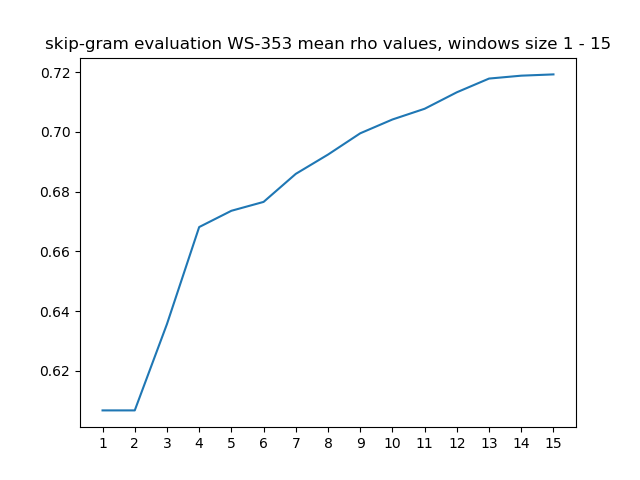
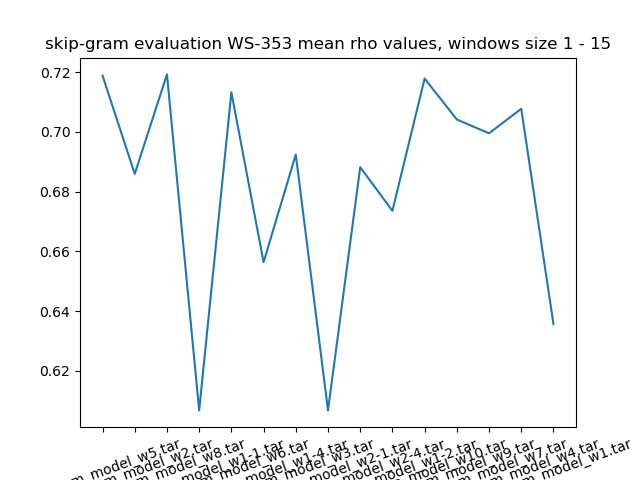
new model with dim 500 have same positive increase

diff --git a/models/values_eval_plot.py b/models/values_eval_plot.py
@@ -5,46 +5,50 @@ mean_rho_data = np.loadtxt("eval_mean_rho.txt", dtype = str, delimiter = "\n")
 #we know there shoould be 12 values in both
 mean_rho_SGNS = []
 mean_rho_CBOW = []
+model_name_SGNS = []
+model_name_CBOW = []
 
 for i, data in enumerate(mean_rho_data):
     if i == len(mean_rho_data)-1:
         print("made arrays of values")
     else:
         if "cbow" in str(data):
-            print("hej")
+            model_name_CBOW.append(mean_rho_data[i])
             mean_rho_CBOW.append(float(mean_rho_data[i+1]))
         if "skipgram" in str(data):
-            print("hejhej")
+            model_name_SGNS.append(mean_rho_data[i])
             mean_rho_SGNS.append(float(mean_rho_data[i+1]))
 
 mean_rho_SGNS = np.array(mean_rho_SGNS)
 mean_rho_CBOW = np.array(mean_rho_CBOW)
-mean_rho_SGNS.sort()
-mean_rho_CBOW.sort()
+#mean_rho_SGNS.sort() #we fuck it up if we sort
+#mean_rho_CBOW.sort() #could make tuples instead...
 
 print("skip-gram evaluation WS-353 mean values, windows size 1 - {}".format(len(mean_rho_SGNS)))
-#mean_rho_SGNS = [0.6356543304967629,0.6859671484411557  ,0.6924293781318873  , 0.7077708305390136,0.7188599859909027 , 0.7132944845703011 , 0.699551202038216, 0.7192855118852405,  0.7041803792159528,  0.717889605224073]
 
-window_size_SGNS =np.arange(1,len(mean_rho_SGNS)+1,1)
+#first results
+#mean_rho_SGNS = [0.6356543304967629,0.6859671484411557  ,0.6924293781318873  , 0.7077708305390136,0.7188599859909027 , 0.7132944845703011 , 0.699551202038216, 0.7192855118852405,  0.7041803792159528,  0.717889605224073]
+#window_size_SGNS =np.arange(1,len(mean_rho_SGNS)+1,1)
 
 for i in range(len(mean_rho_SGNS)):
-    print("window size " + str(window_size_SGNS[i]) + ": " + str(mean_rho_SGNS[i]))
+    print(model_name_SGNS[i] + ": " + str(mean_rho_SGNS[i]))
 
 SGNS_plot, ax_SGNS = plt.subplots()
-ax_SGNS.plot(window_size_SGNS, mean_rho_SGNS)
-plt.xticks(window_size_SGNS)
+ax_SGNS.plot(model_name_SGNS, mean_rho_SGNS)
+plt.xticks(np.arange(len(model_name_SGNS)), model_name_SGNS, rotation=20)
 ax_SGNS.set_title("skip-gram evaluation WS-353 mean rho values, windows size 1 - {}".format(len(mean_rho_SGNS)))
 SGNS_plot.savefig("SGNS_plot.png")
 
+#first results
 #mean_rho_CBOW = [0.5804338343545967 , 0.6508858227099523 ,0.6802805346625579  ,0.6932546677573747  , 0.7024608832285866, 0.7090981595837526 ,0.7075484759236735, 0.722764153135901, 0.7121865820323352, 0.7234083268868999 ]
-window_size_CBOW = np.arange(1,len(mean_rho_CBOW)+1,1)
+#window_size_CBOW = np.arange(1,len(mean_rho_CBOW)+1,1)
 
 print("CBOW evaluation on WS-353 mean rho values, windows size 1 - {}".format(len(mean_rho_CBOW)))
 for i in range(len(mean_rho_CBOW)):
-    print("window size " + str(window_size_CBOW[i]) + ": " + str(mean_rho_CBOW[i]))
+    print(model_name_CBOW[i] + ": " + str(mean_rho_CBOW[i]))
 
 CBOW_plot, ax_CBOW = plt.subplots()
-ax_CBOW.plot(window_size_CBOW, mean_rho_CBOW)
-plt.xticks(window_size_CBOW)
+ax_CBOW.plot(model_name_CBOW, mean_rho_CBOW)
+plt.xticks(np.arange(len(model_name_CBOW)), model_name_CBOW, rotation=20)
 ax_CBOW.set_title("CBOW evaluation WS-353 mean values, windows size 1 - {}".format(len(mean_rho_CBOW)))
 CBOW_plot.savefig("CBOW_plot.png")
